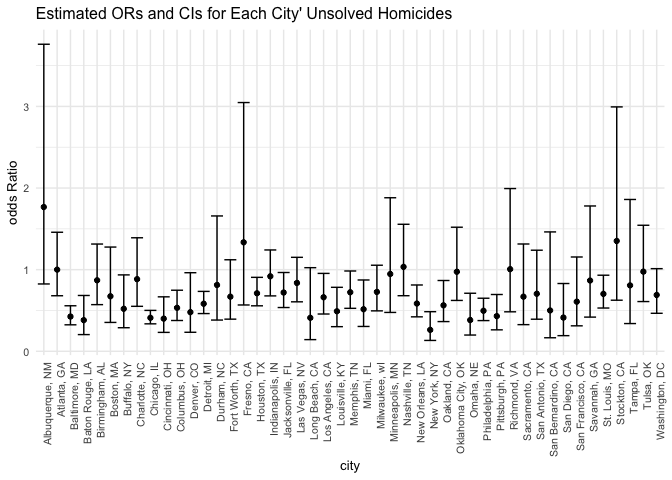
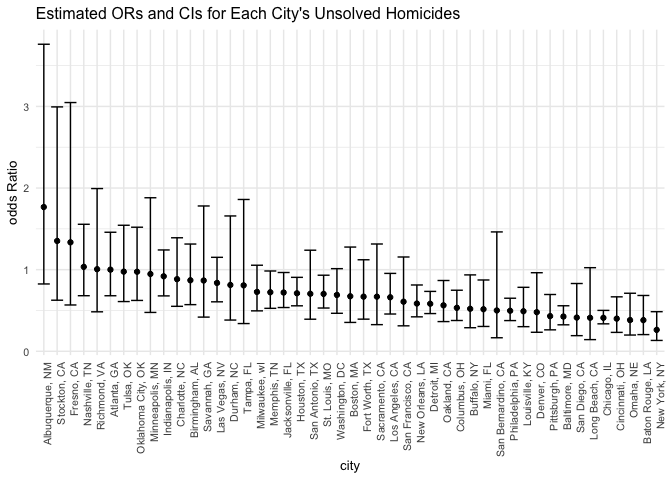
add graph for problem 2

diff --git a/p8105_hw6_jm5509.md b/p8105_hw6_jm5509.md
@@ -254,14 +254,14 @@ all_cities %>% knitr::kable()
 
 ``` r
 all_cities %>% 
-  mutate(city_state = fct_reorder(city_state, OR)) %>% 
-  ggplot(aes(x = city_state, y = OR)) +
+  #mutate(city_state = fct_reorder(city_state, OR, .desc = TRUE)) %>% 
+  ggplot(aes(x = fct_reorder(city_state, OR, .desc = TRUE), y = OR)) +
   geom_point() +
   geom_errorbar(aes(ymin = conf_low_OR, ymax = conf_high_OR)) +
   theme(text = element_text(size = 10),
           axis.text.x = element_text(angle = 90, hjust = 1)) +
   labs( x = 'city', y ='odds Ratio',
-    title = 'Estimated ORs and CIs for Each City\' Unsolved Homicides'
+    title = 'Estimated ORs and CIs for Each City\'s Unsolved Homicides'
   )
 ```
 
